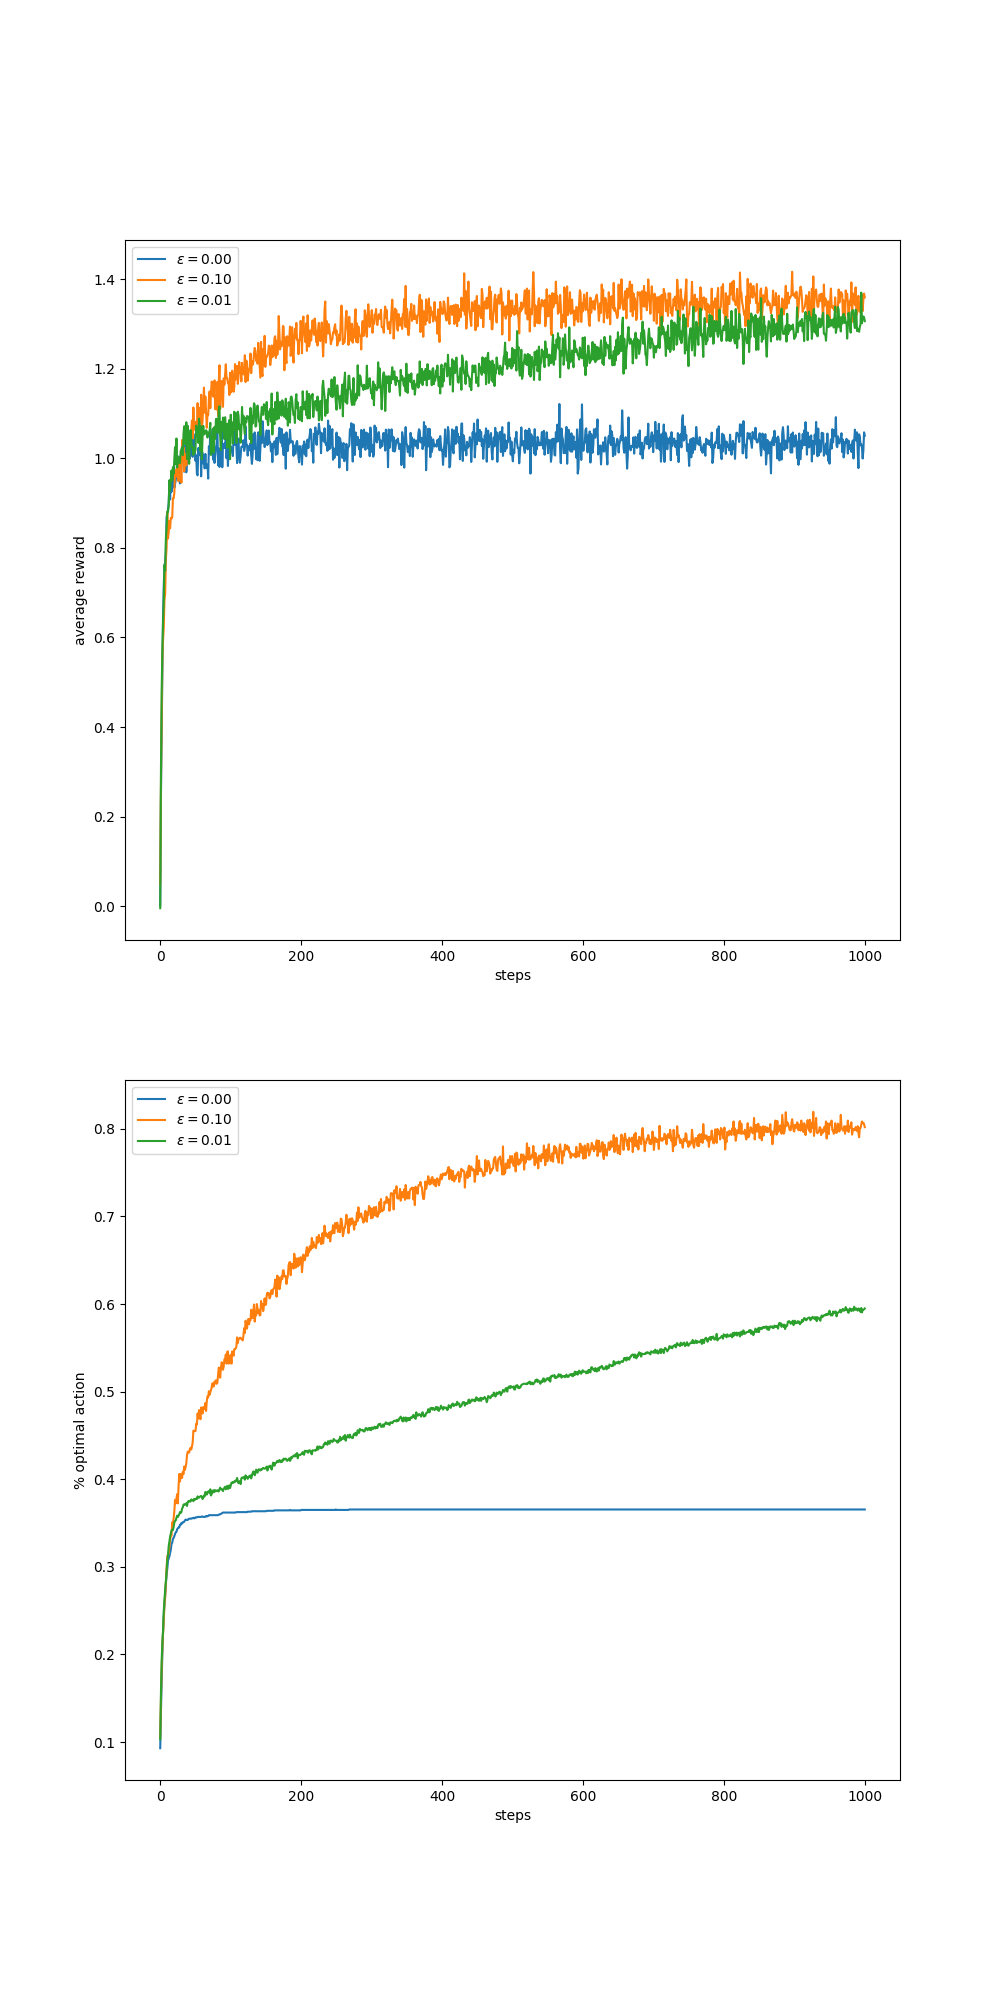
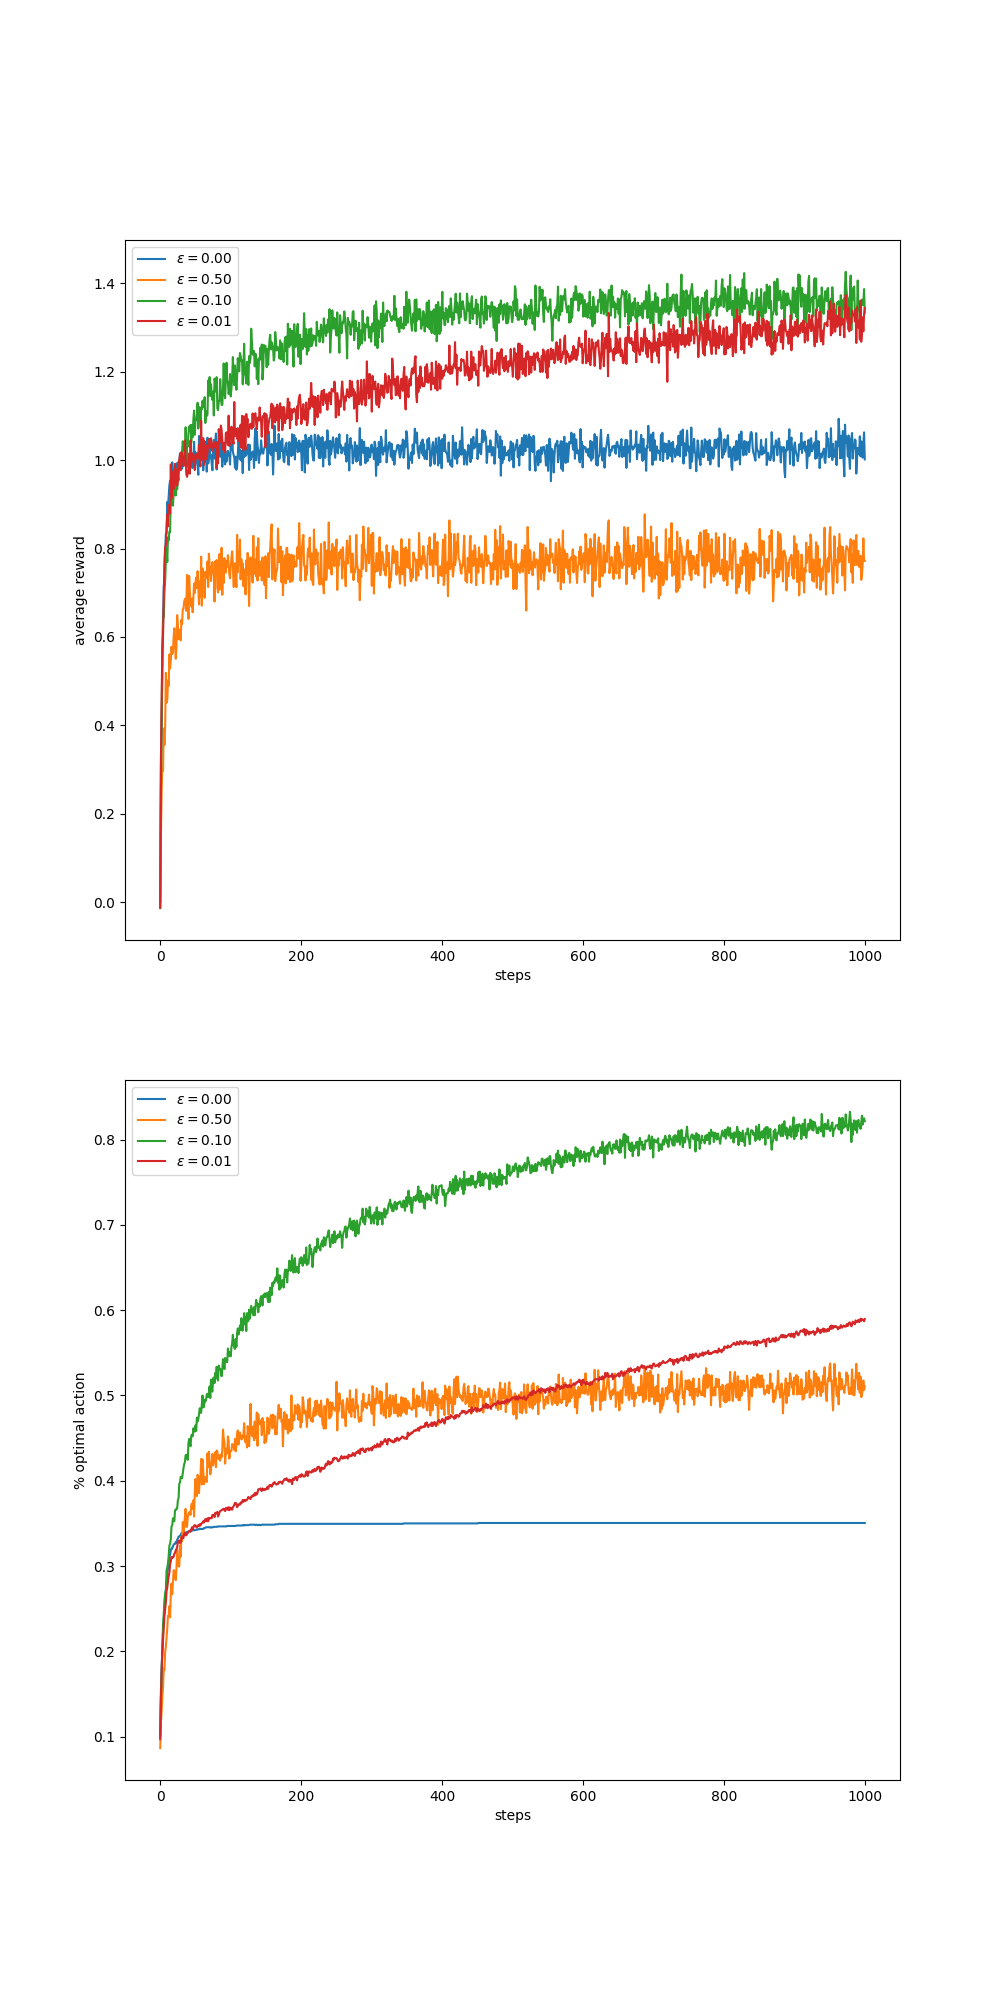
Adjust code and figures.

diff --git a/chapter03/grid_world.py b/chapter03/grid_world.py
@@ -5,13 +5,13 @@
 # Permission given to modify the code as long as you keep this        #
 # declaration at the top                                              #
 #######################################################################
-
+# %%
 import matplotlib
 import matplotlib.pyplot as plt
 import numpy as np
 from matplotlib.table import Table
 
-matplotlib.use('Agg')
+matplotlib.use("Agg")
 
 WORLD_SIZE = 5
 A_POS = [0, 1]
@@ -21,11 +21,8 @@ B_PRIME_POS = [2, 3]
 DISCOUNT = 0.9
 
 # left, up, right, down
-ACTIONS = [np.array([0, -1]),
-           np.array([-1, 0]),
-           np.array([0, 1]),
-           np.array([1, 0])]
-ACTIONS_FIGS=[ '←', '↑', '→', '↓']
+ACTIONS = [np.array([0, -1]), np.array([-1, 0]), np.array([0, 1]), np.array([1, 0])]
+ACTIONS_FIGS = ["←", "↑", "→", "↓"]
 
 
 ACTION_PROB = 0.25
@@ -67,19 +64,20 @@ def draw_image(image):
             val = str(val) + " (B)"
         if [i, j] == B_PRIME_POS:
             val = str(val) + " (B')"
-        
-        tb.add_cell(i, j, width, height, text=val,
-                    loc='center', facecolor='white')
-        
+
+        tb.add_cell(i, j, width, height, text=val, loc="center", facecolor="white")
 
     # Row and column labels...
     for i in range(len(image)):
-        tb.add_cell(i, -1, width, height, text=i+1, loc='right',
-                    edgecolor='none', facecolor='none')
-        tb.add_cell(-1, i, width, height/2, text=i+1, loc='center',
-                    edgecolor='none', facecolor='none')
+        tb.add_cell(
+            i, -1, width, height, text=i + 1, loc="right", edgecolor="none", facecolor="none"
+        )
+        tb.add_cell(
+            -1, i, width, height / 2, text=i + 1, loc="center", edgecolor="none", facecolor="none"
+        )
 
     ax.add_table(tb)
+
 
 def draw_policy(optimal_values):
     fig, ax = plt.subplots()
@@ -91,16 +89,16 @@ def draw_policy(optimal_values):
 
     # Add cells
     for (i, j), val in np.ndenumerate(optimal_values):
-        next_vals=[]
+        next_vals = []
         for action in ACTIONS:
             next_state, _ = step([i, j], action)
-            next_vals.append(optimal_values[next_state[0],next_state[1]])
+            next_vals.append(optimal_values[next_state[0], next_state[1]])
 
-        best_actions=np.where(next_vals == np.max(next_vals))[0]
-        val=''
+        best_actions = np.where(next_vals == np.max(next_vals))[0]
+        val = ""
         for ba in best_actions:
-            val+=ACTIONS_FIGS[ba]
-        
+            val += ACTIONS_FIGS[ba]
+
         # add state labels
         if [i, j] == A_POS:
             val = str(val) + " (A)"
@@ -110,16 +108,17 @@ def draw_policy(optimal_values):
             val = str(val) + " (B)"
         if [i, j] == B_PRIME_POS:
             val = str(val) + " (B')"
-        
-        tb.add_cell(i, j, width, height, text=val,
-                loc='center', facecolor='white')
+
+        tb.add_cell(i, j, width, height, text=val, loc="center", facecolor="white")
 
     # Row and column labels...
     for i in range(len(optimal_values)):
-        tb.add_cell(i, -1, width, height, text=i+1, loc='right',
-                    edgecolor='none', facecolor='none')
-        tb.add_cell(-1, i, width, height/2, text=i+1, loc='center',
-                   edgecolor='none', facecolor='none')
+        tb.add_cell(
+            i, -1, width, height, text=i + 1, loc="right", edgecolor="none", facecolor="none"
+        )
+        tb.add_cell(
+            -1, i, width, height / 2, text=i + 1, loc="center", edgecolor="none", facecolor="none"
+        )
 
     ax.add_table(tb)
 
@@ -137,16 +136,17 @@ def figure_3_2():
                     new_value[i, j] += ACTION_PROB * (reward + DISCOUNT * value[next_i, next_j])
         if np.sum(np.abs(value - new_value)) < 1e-4:
             draw_image(np.round(new_value, decimals=2))
-            plt.savefig('../images/figure_3_2.png')
+            plt.savefig("images/figure_3_2.png")
             plt.close()
             break
         value = new_value
 
+
 def figure_3_2_linear_system():
-    '''
+    """
     Here we solve the linear system of equations to find the exact solution.
     We do this by filling the coefficients for each of the states with their respective right side constant.
-    '''
+    """
     A = -1 * np.eye(WORLD_SIZE * WORLD_SIZE)
     b = np.zeros(WORLD_SIZE * WORLD_SIZE)
     for i in range(WORLD_SIZE):
@@ -162,8 +162,9 @@ def figure_3_2_linear_system():
 
     x = np.linalg.solve(A, b)
     draw_image(np.round(x.reshape(WORLD_SIZE, WORLD_SIZE), decimals=2))
-    plt.savefig('../images/figure_3_2_linear_system.png')
+    plt.savefig("images/figure_3_2_linear_system.png")
     plt.close()
+
 
 def figure_3_5():
     value = np.zeros((WORLD_SIZE, WORLD_SIZE))
@@ -180,16 +181,16 @@ def figure_3_5():
                 new_value[i, j] = np.max(values)
         if np.sum(np.abs(new_value - value)) < 1e-4:
             draw_image(np.round(new_value, decimals=2))
-            plt.savefig('../images/figure_3_5.png')
+            plt.savefig("images/figure_3_5.png")
             plt.close()
             draw_policy(new_value)
-            plt.savefig('../images/figure_3_5_policy.png')
+            plt.savefig("images/figure_3_5_policy.png")
             plt.close()
             break
         value = new_value
 
 
-if __name__ == '__main__':
+if __name__ == "__main__":
     figure_3_2_linear_system()
     figure_3_2()
     figure_3_5()

diff --git a/chapter02/ten_armed_testbed.py b/chapter02/ten_armed_testbed.py
@@ -1,12 +1,5 @@
-#######################################################################
-# Copyright (C)                                                       #
-# 2016-2018 Shangtong Zhang(zhangshangtong.cpp@gmail.com)             #
-# 2016 Tian Jun(tianjun.cpp@gmail.com)                                #
-# 2016 Artem Oboturov(oboturov@gmail.com)                             #
-# 2016 Kenta Shimada(hyperkentakun@gmail.com)                         #
-# Permission given to modify the code as long as you keep this        #
-# declaration at the top                                              #
-#######################################################################
+"""The ten-armed testbed for the epsilon-greedy, UCB, and gradient bandit algorithms."""
+
 # %%
 from typing import Optional
 
@@ -23,10 +16,12 @@ class Bandit:
     # @epsilon: probability for exploration in epsilon-greedy algorithm
     # @initial: initial estimation for each action
     # @step_size: constant step size for updating estimations
-    # @sample_averages: if True, use sample averages to update estimations instead of constant step size
+    # @sample_averages: if True, use sample averages to update estimations instead of constant
+    # step size
     # @UCB_param: if not None, use UCB algorithm to select action
     # @gradient: if True, use gradient based bandit algorithm
-    # @gradient_baseline: if True, use average reward as baseline for gradient based bandit algorithm
+    # @gradient_baseline: if True, use average reward as baseline for gradient based bandit
+    # algorithm
     def __init__(
         self,
         k_arm: int = 10,
@@ -39,6 +34,31 @@ class Bandit:
         gradient_baseline: bool = False,
         true_reward: float = 0.0,
     ) -> None:
+        """Initialize the bandit.
+
+        Parameters
+        ----------
+        k_arm : int, optional
+            Number of arms, by default 10
+        epsilon : float, optional
+            Probability for exploration in epsilon-greedy algorithm, by default 0.0
+        initial : float, optional
+            Initial estimation for each action, by default 0.0
+        step_size : float, optional
+            Constant step size for updating estimations, by default 0.1
+        sample_averages : bool, optional
+            If True, use sample averages to update estimations instead of constant step size,
+            by default False
+        ucb_param : Optional[float], optional
+            If not None, use UCB algorithm to select action, by default None
+        gradient : bool, optional
+            If True, use gradient based bandit algorithm, by default False
+        gradient_baseline : bool, optional
+            If True, use average reward as baseline for gradient based bandit algorithm
+            by default False
+        true_reward : float, optional
+            The true reward, by default 0.0
+        """
         self.k = k_arm
         self.step_size = step_size
         self.sample_averages = sample_averages
@@ -177,7 +197,7 @@ def figure_2_1():
 
 
 def figure_2_2(runs=2000, time=1000):
-    epsilons = [0, 0.1, 0.01]
+    epsilons = [0, 0.5, 0.1, 0.01]
     bandits = [Bandit(epsilon=eps, sample_averages=True) for eps in epsilons]
     best_action_counts, rewards = simulate(runs, time, bandits)
 
@@ -282,9 +302,9 @@ def figure_2_6(runs=2000, time=1000):
 
     i = 0
     for label, parameter in zip(labels, parameters):
-        l = len(parameter)
-        plt.plot(parameter, rewards[i : i + l], label=label)
-        i += l
+        length = len(parameter)
+        plt.plot(parameter, rewards[i : i + length], label=label)
+        i += length
     plt.xlabel("Parameter($2^x$)")
     plt.ylabel("Average reward")
     plt.legend()
@@ -294,9 +314,9 @@ def figure_2_6(runs=2000, time=1000):
 
 
 if __name__ == "__main__":
-    figure_2_1()
+    # figure_2_1()
     figure_2_2()
-    figure_2_3()
-    figure_2_4()
-    figure_2_5()
-    figure_2_6()
+    # figure_2_3()
+    # figure_2_4()
+    # figure_2_5()
+    # figure_2_6()
